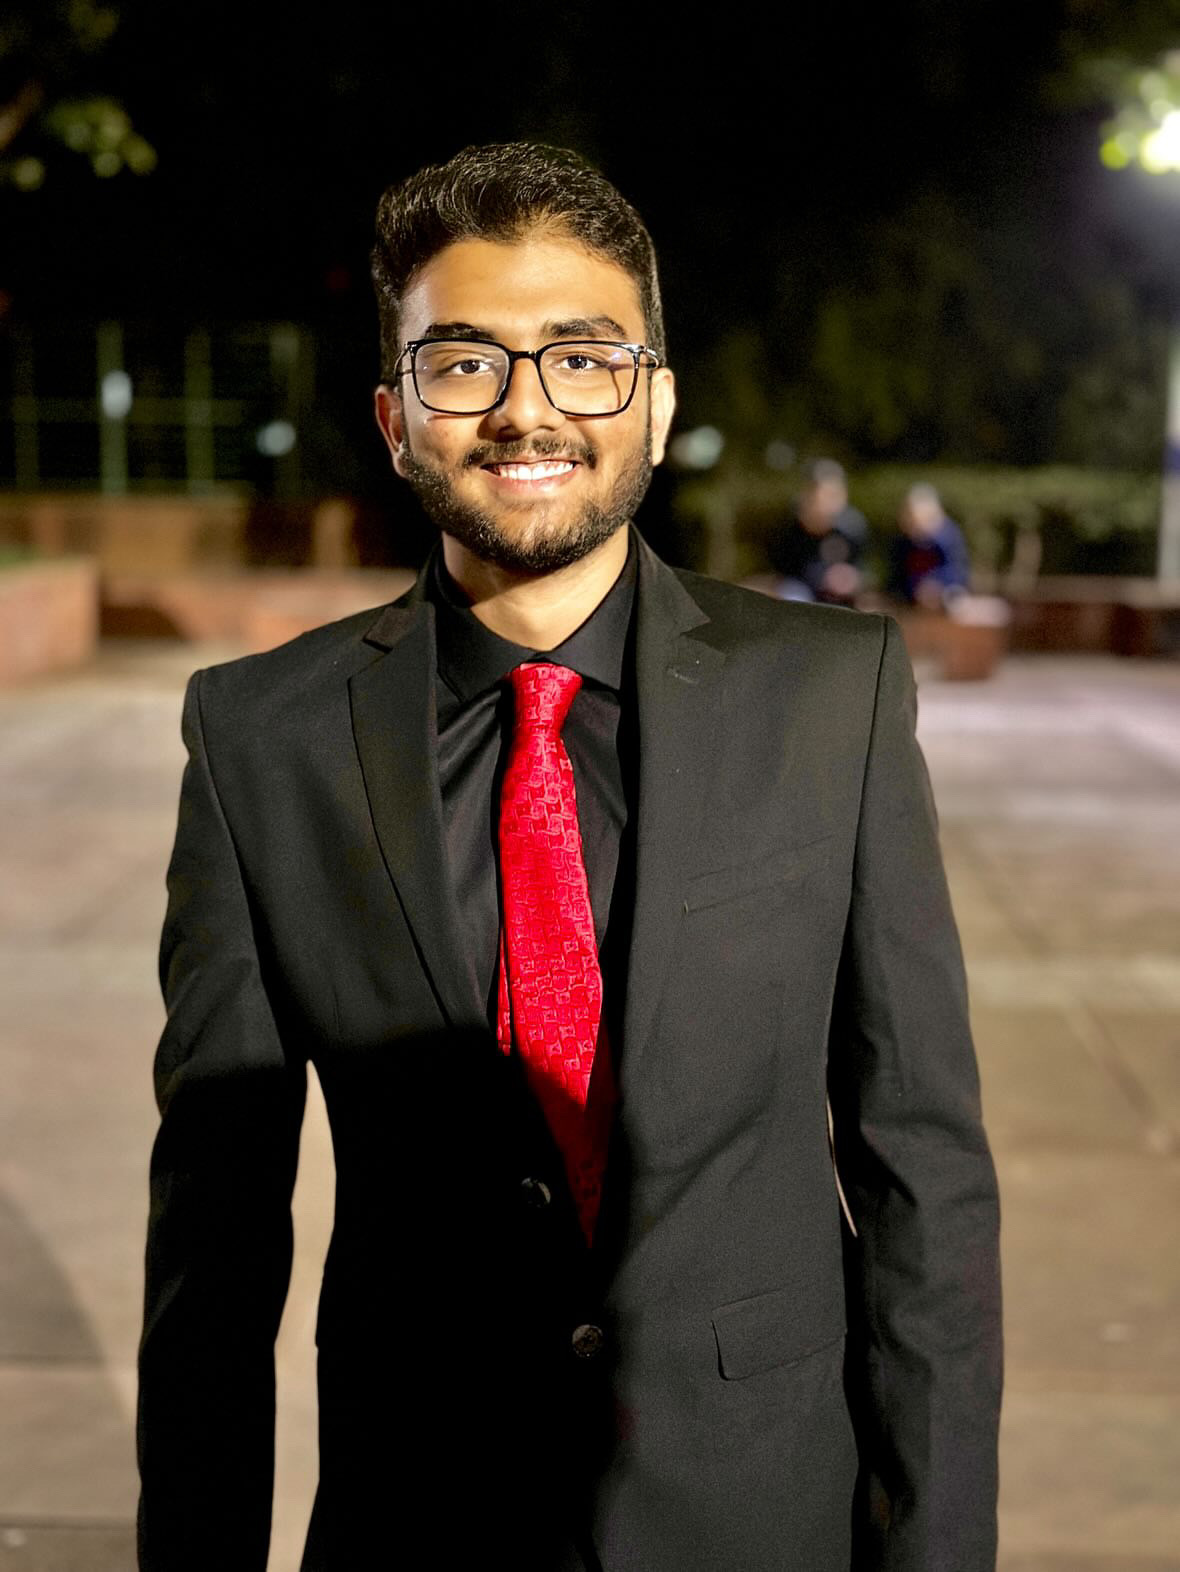
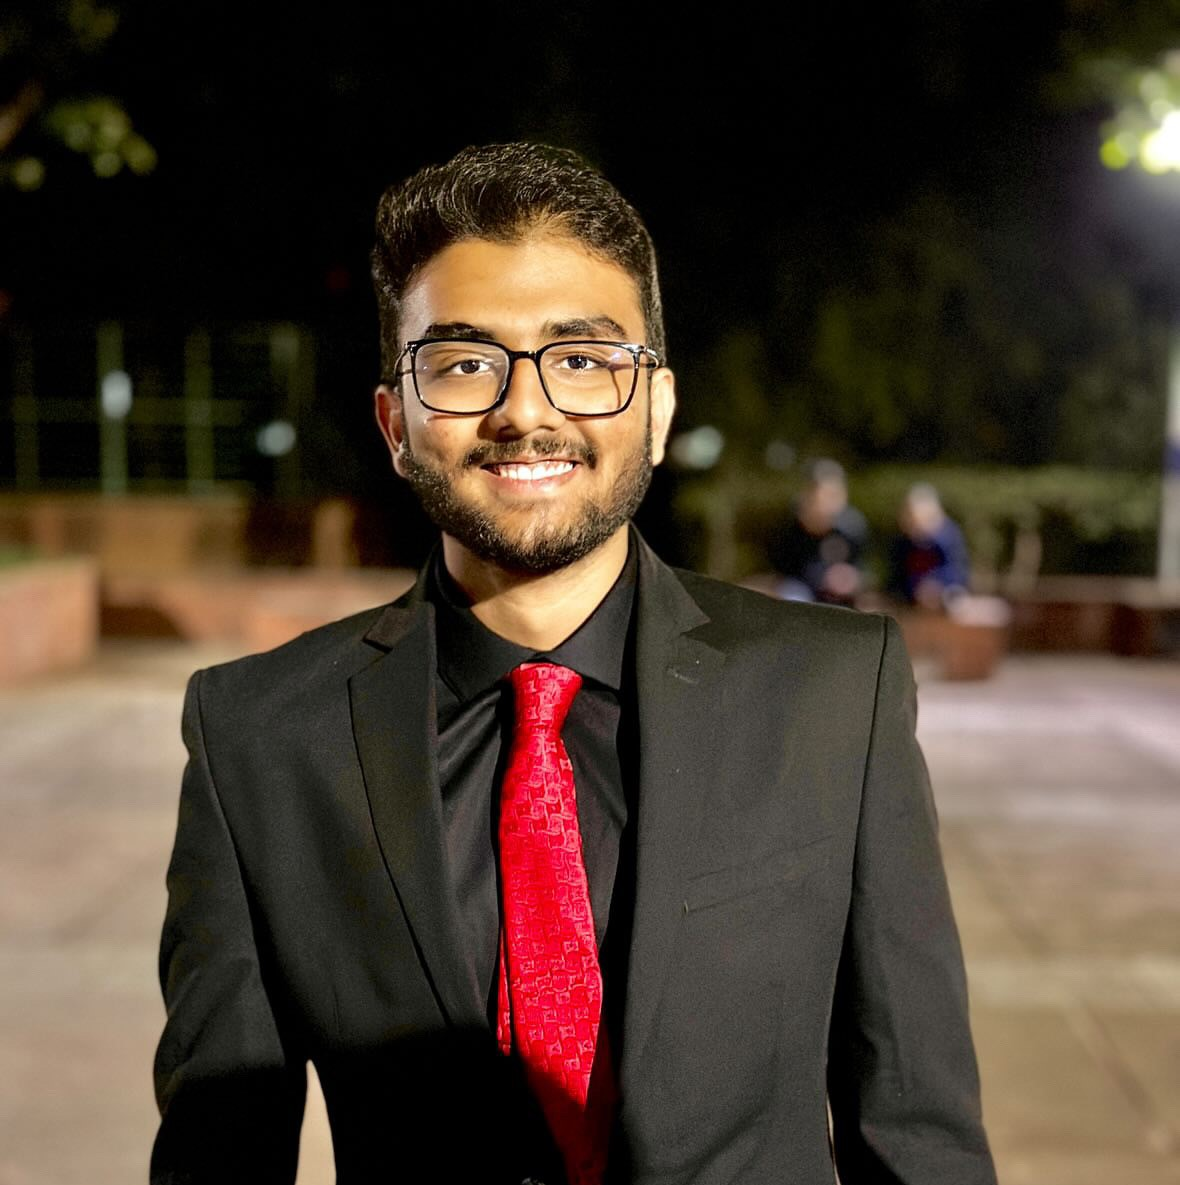
photos updated

diff --git a/src/Components/Team/Team.jsx b/src/Components/Team/Team.jsx
@@ -4,6 +4,7 @@ import MemberCard from "./MemberCard";
 import { useEffect } from "react";
 
 import Manav from "../../assets/team/manav.jpg";
+import Sid from "../../assets/team/Siddharth.jpg"; 
 import Abhey from "../../assets/team/Abhey.jpg";
 // import Abhinav from "../../assets/team/abhinav.jpg";
 import Krishna from "../../assets/team/Krishna.jpg";
@@ -145,7 +146,7 @@ const Team = () => {
             whileInView="show"
             className="text-2xl font-semibold mt-10 mb-6"
           >
-            Web Development Head
+            Development Head
           </motion.h2>
           <motion.div
             className="flex justify-center gap-6"
@@ -156,7 +157,7 @@ const Team = () => {
               <MemberCard
                 name="Siddharth Jiyani"
                 link="https://www.linkedin.com/in/siddharth-jiyani"
-                // imgSrc={Siddharth}
+                imgSrc={Sid}
               />
             </motion.div>
           </motion.div>
